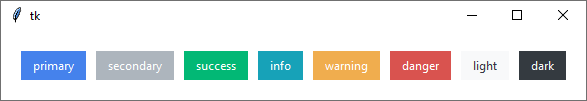
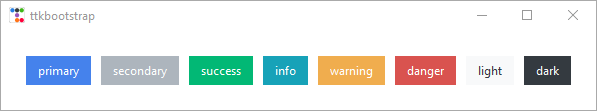
update button images

diff --git a/docs_scripts/tutorial/simple_usage.py b/docs_scripts/tutorial/simple_usage.py
@@ -1,18 +1,15 @@
-import tkinter as tk
 import ttkbootstrap as ttk
-from ttkbootstrap import utility
-utility.enable_high_dpi_awareness()
+from ttkbootstrap.constants import *
 
-root = tk.Tk()
-style = ttk.Style()  # use default style 'flatly'
+app = ttk.Window()
 
 frame = ttk.Frame(padding=5)
 frame.pack(padx=10, pady=10)
 
 b1 = ttk.Button(frame, text="Button 1", bootstyle="success")
-b1.pack(side=tk.LEFT, padx=5, pady=10)
+b1.pack(side=LEFT, padx=5, pady=10)
 
 b2 = ttk.Button(frame, text="Button 2", bootstyle="info-outline")
-b2.pack(side=tk.LEFT, padx=5, pady=10)
+b2.pack(side=LEFT, padx=5, pady=10)
 
-root.mainloop()
+app.mainloop()

diff --git a/docs_scripts/tutorial/solid_outline_button_styles.py b/docs_scripts/tutorial/solid_outline_button_styles.py
@@ -1,18 +1,15 @@
-import tkinter as tk
 import ttkbootstrap as ttk
-from ttkbootstrap import utility
-utility.enable_high_dpi_awareness()
+from ttkbootstrap.constants import *
 
-root = tk.Tk()
-style = ttk.Style()  # use default style 'flatly'
+root = ttk.Window()
 
 frame = ttk.Frame(padding=5)
 frame.pack(padx=10, pady=10)
 
 b1 = ttk.Button(frame, text="Solid Button", bootstyle="success")
-b1.pack(side=tk.LEFT, padx=5, pady=10)
+b1.pack(side=LEFT, padx=5, pady=10)
 
 b2 = ttk.Button(frame, text="Outline Button", bootstyle="success-outline")
-b2.pack(side=tk.LEFT, padx=5, pady=10)
+b2.pack(side=LEFT, padx=5, pady=10)
 
 root.mainloop()

diff --git a/docs_scripts/tutorial/button_colors.py b/docs_scripts/tutorial/button_colors.py
@@ -1,16 +1,13 @@
-import tkinter as tk
 import ttkbootstrap as ttk
-from ttkbootstrap import utility
-utility.enable_high_dpi_awareness()
+from ttkbootstrap.constants import *
 
-root = tk.Tk()
-style = ttk.Style()
+app = ttk.Window()
 
 frame = ttk.Frame(padding=10)
 frame.pack(padx=10, pady=10)
 
-for color in style.colors:
+for color in app.style.colors:
     b = ttk.Button(frame, text=color, bootstyle=color)
-    b.pack(side=tk.LEFT, padx=5, pady=5)
+    b.pack(side=LEFT, padx=5, pady=5)
 
-root.mainloop()
+app.mainloop()
